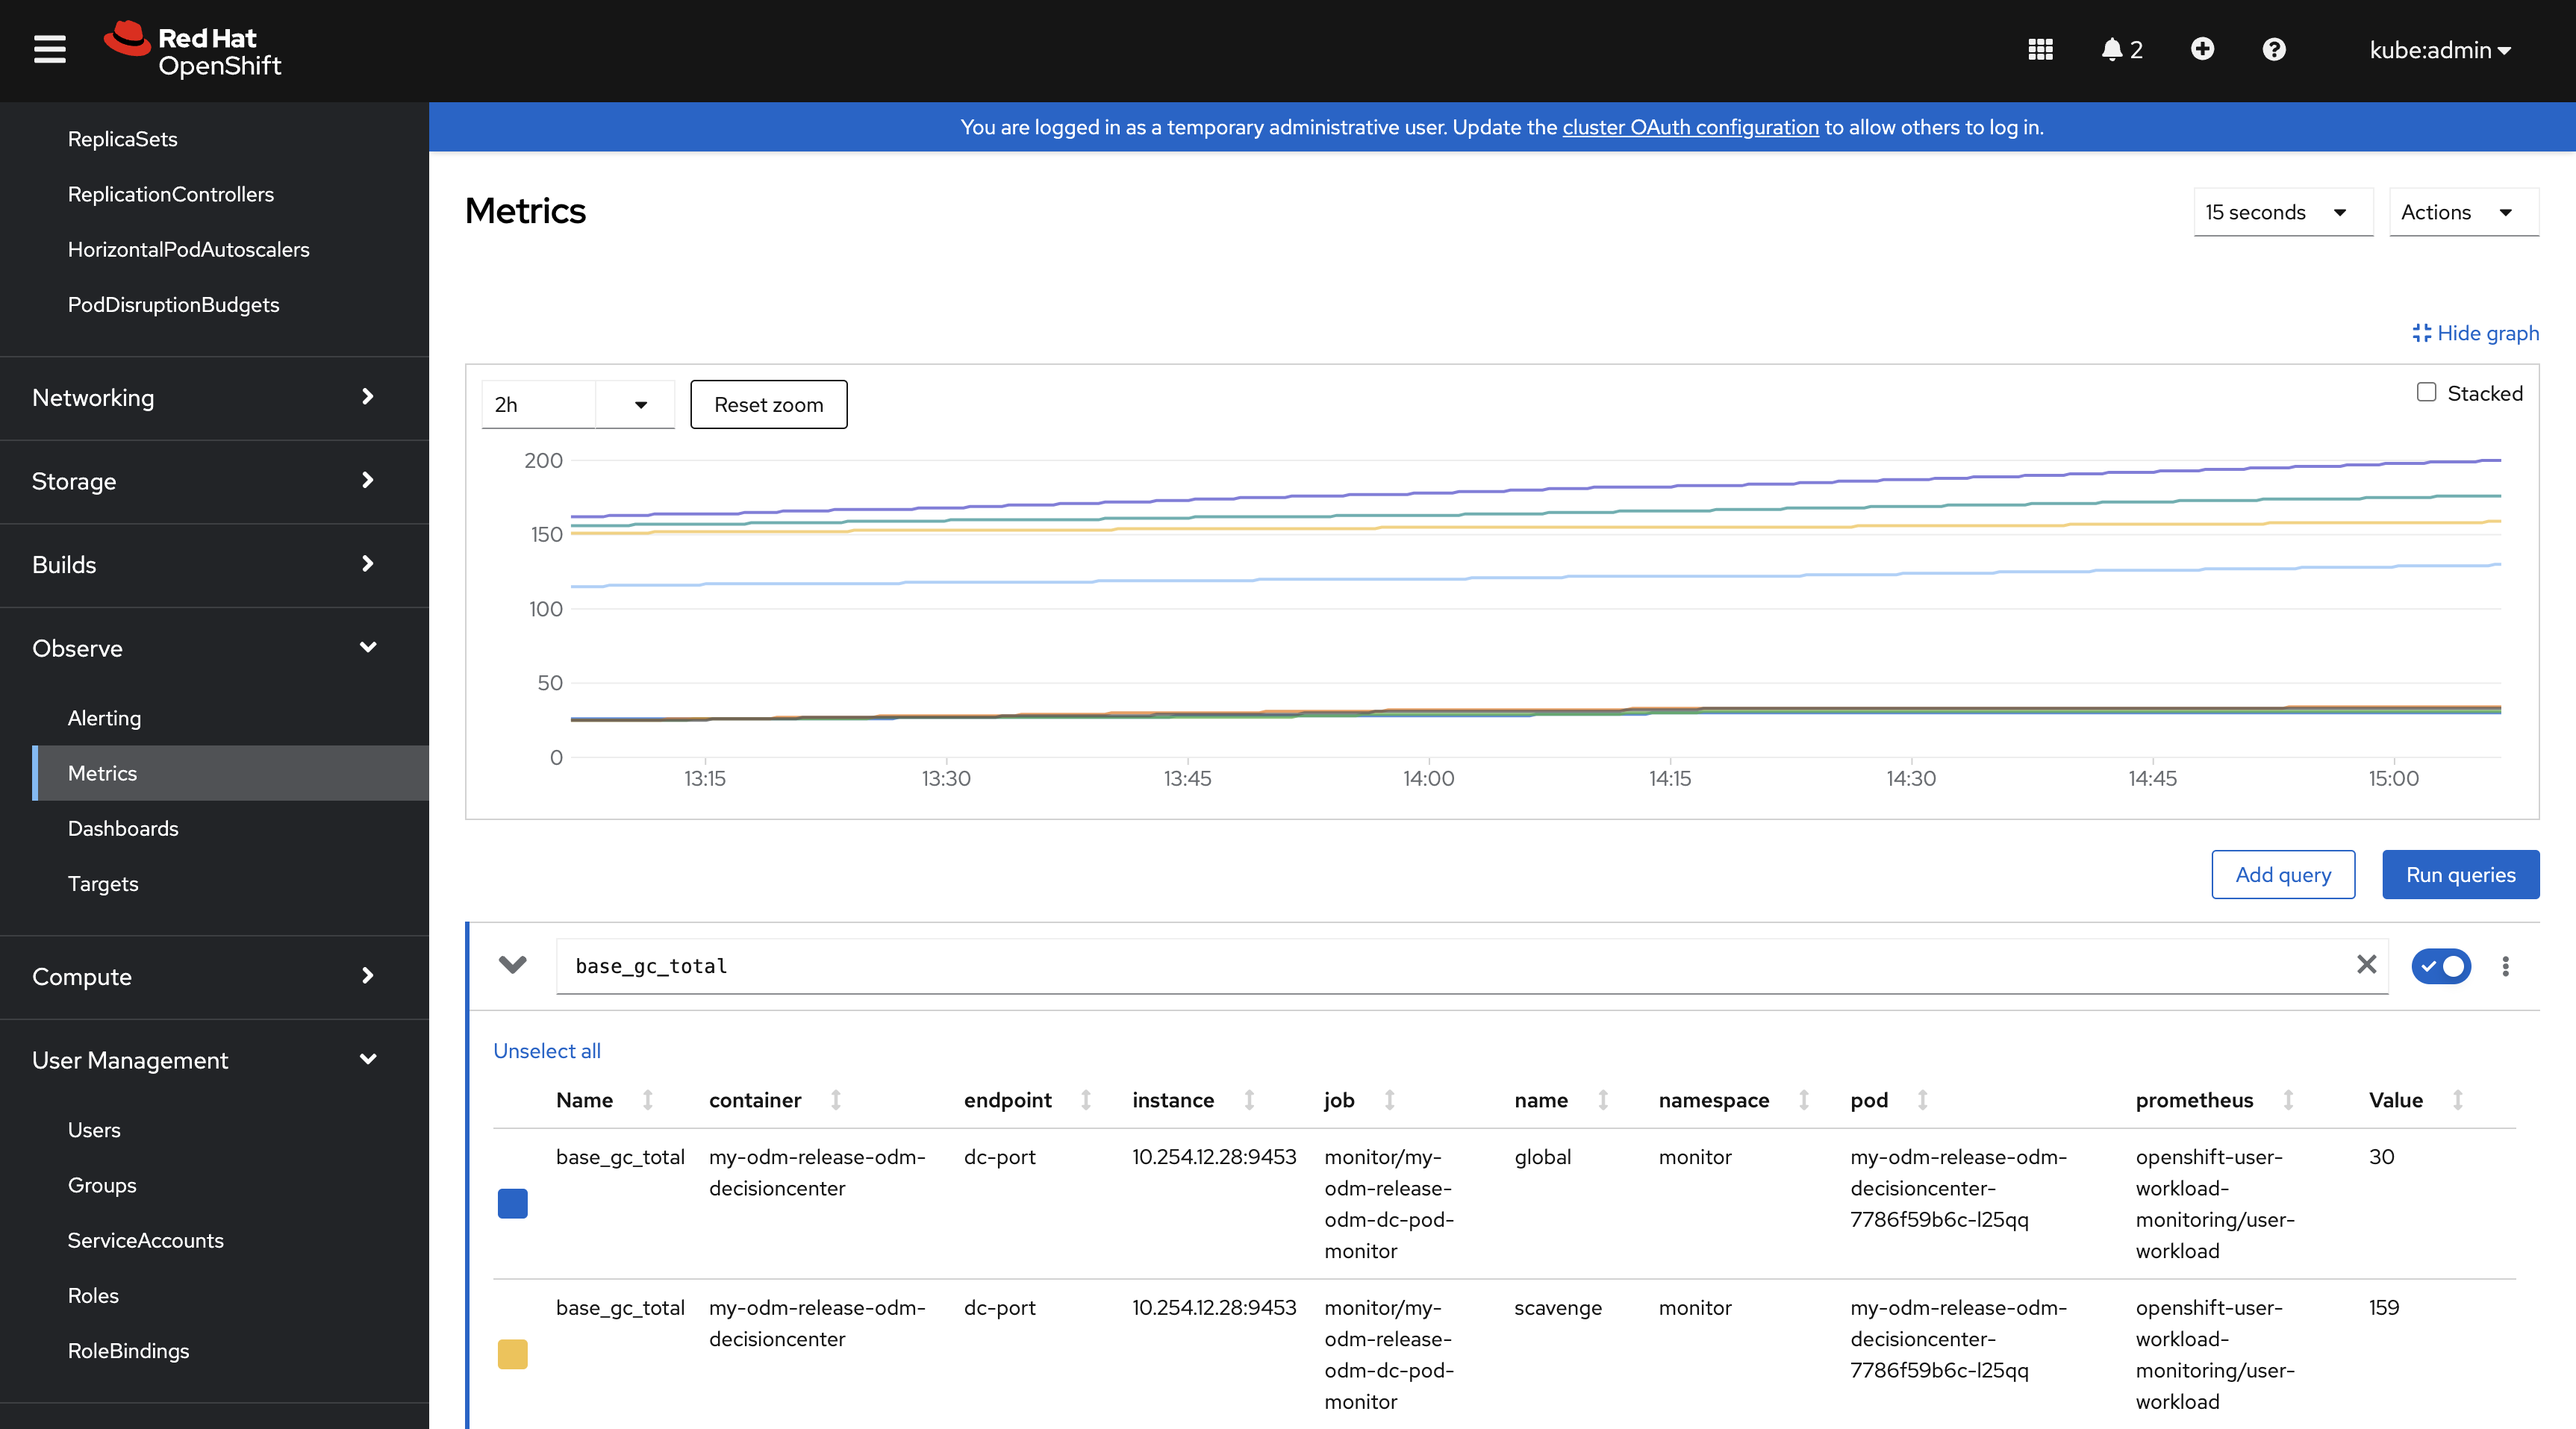
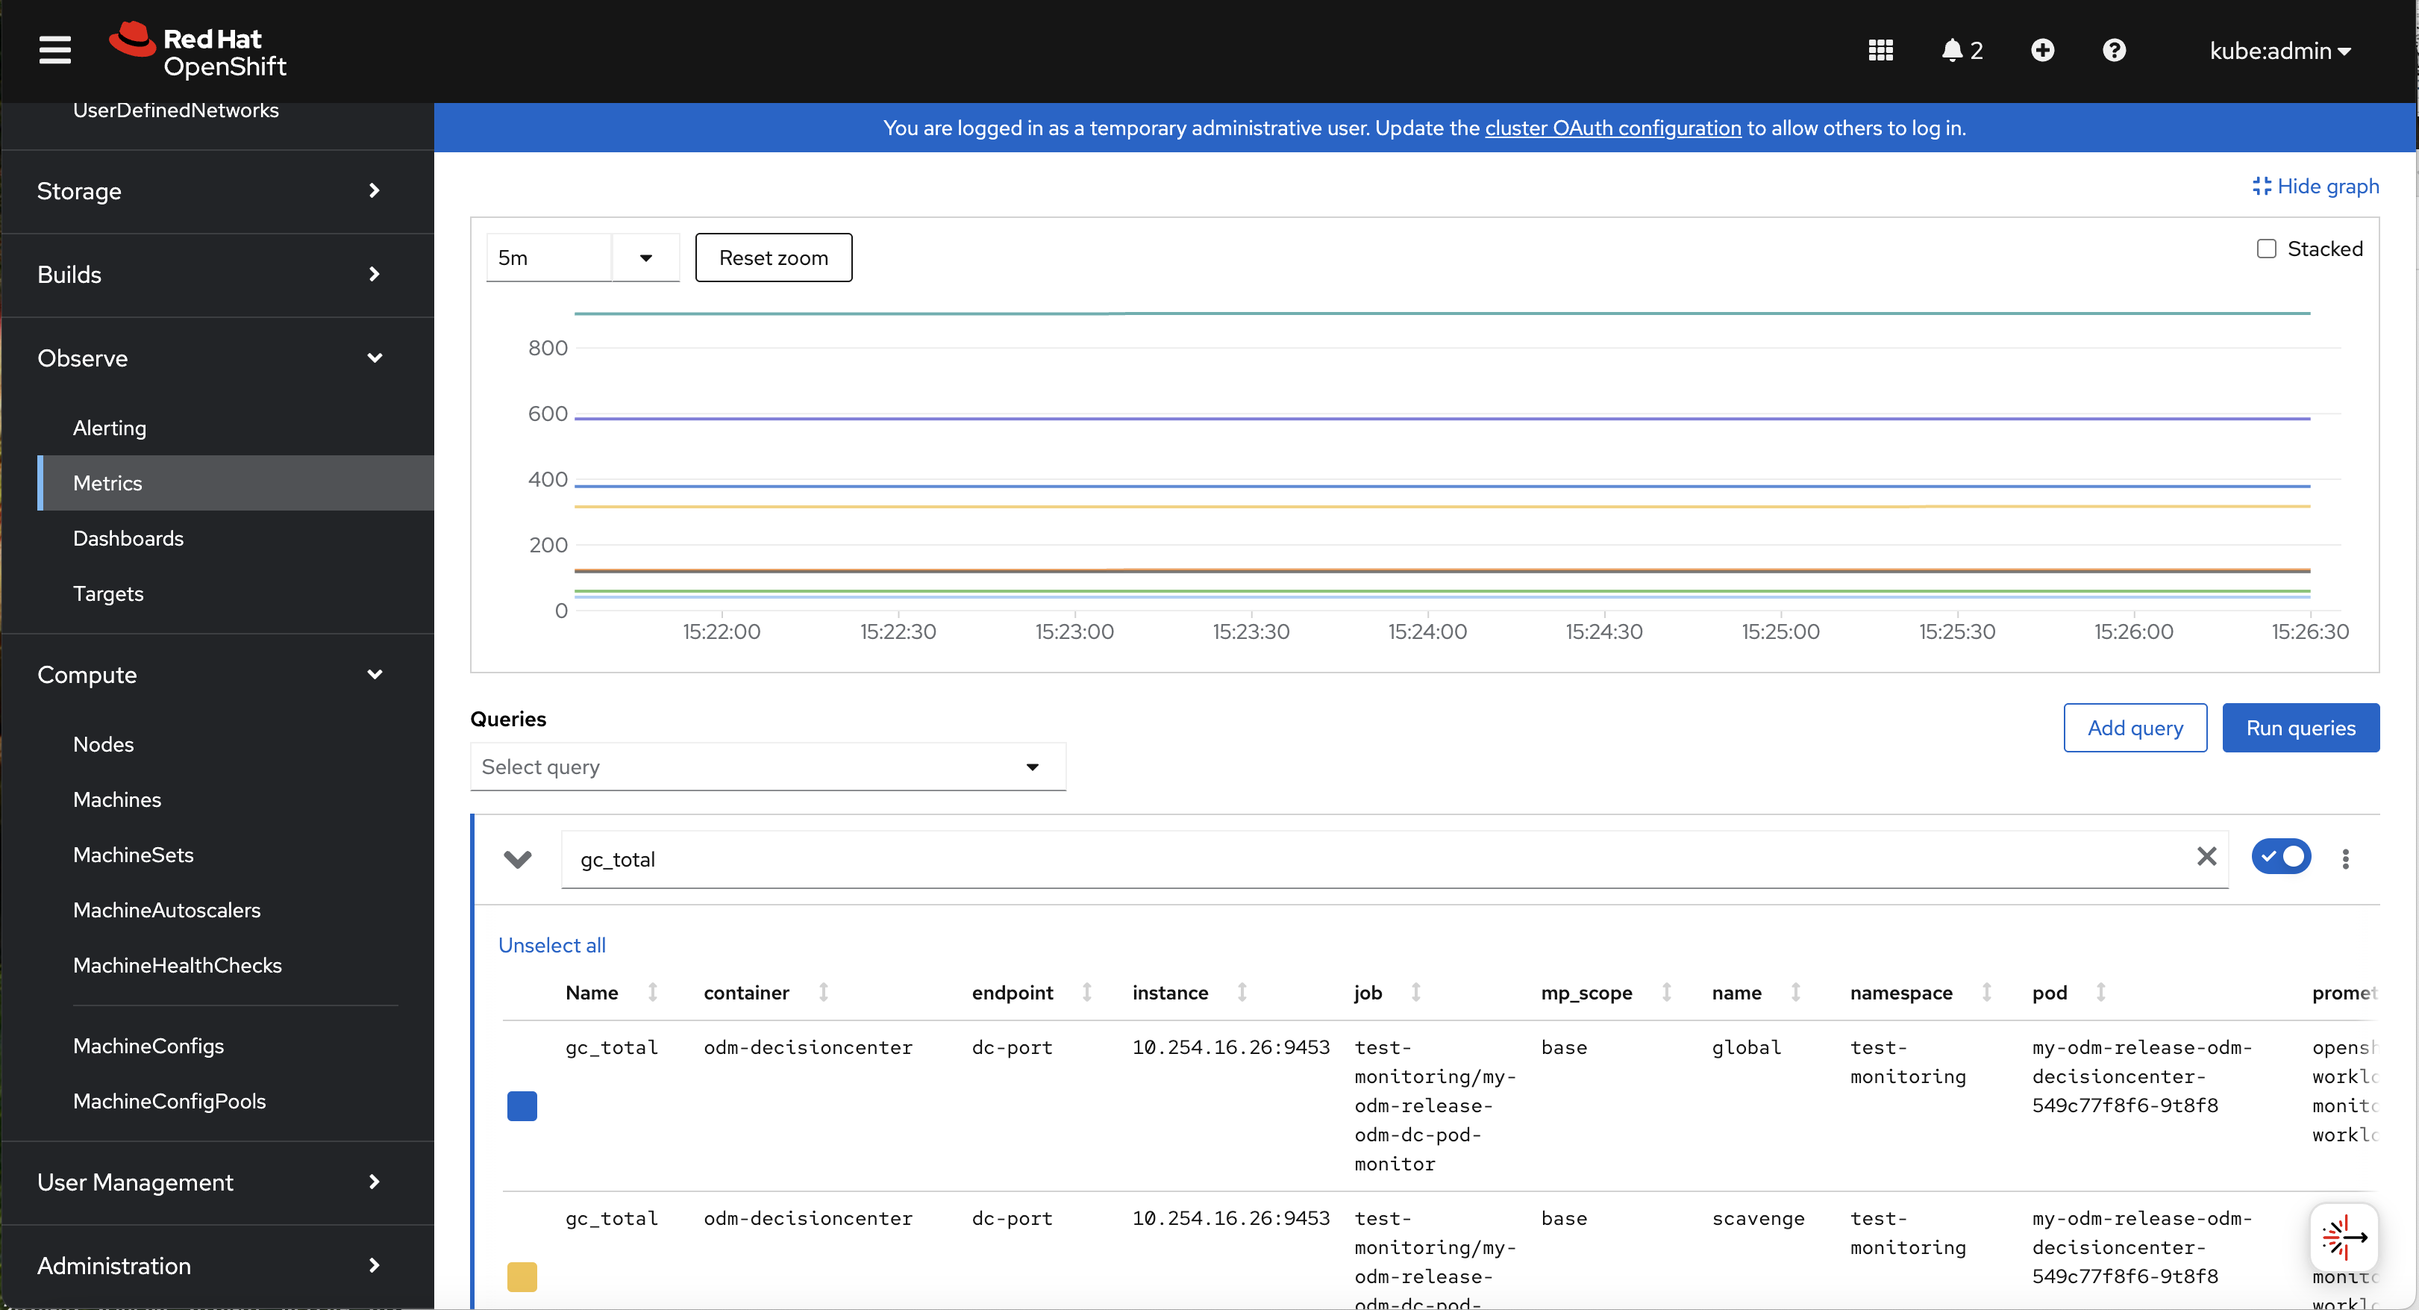
update metrics

diff --git a/contrib/monitor/mpmetrics/README.md b/contrib/monitor/mpmetrics/README.md
@@ -30,7 +30,7 @@ The MicroProfile mpMetrics Liberty feature provides a /metrics endpoint from whi
 2. Create a pull secret by running a `kubectl create secret` command.
 
     ```
-    $ kubectl create secret docker-registry icregistry-secret \
+    kubectl create secret docker-registry icregistry-secret \
         --docker-server=cp.icr.io \
         --docker-username=cp \
         --docker-password="<API_KEY_GENERATED>" \
@@ -70,7 +70,7 @@ Create the monitor-secret
   ```shell
   helm search repo ibm-odm-prod
   NAME                  	CHART VERSION	APP VERSION	DESCRIPTION
-  ibm-helm/ibm-odm-prod	  24.1.0       	9.0.0.1   	IBM Operational Decision Manager
+  ibm-helm/ibm-odm-prod	  25.0.0       	9.5.0.0   	IBM Operational Decision Manager
   ```
 
 ### 3. Run the `helm install` command
@@ -91,6 +91,18 @@ helm install my-odm-release ibm-helm/ibm-odm-prod \
 > [!NOTE]
 > **customization.monitorRef** is installing /metrics endpoint on all components. 
 > If you would like to install /metrics on a specific component, you can replace usage of **customization.monitorRef** by **decisionCenter.monitorRef** , **decisionServerConsole.monitorRef** , **decisionRunner.monitorRef** or **decisionServerRuntime.monitorRef**
+> This command installs the **latest available version** of the chart.  
+> If you want to install a **specific version**, add the `--version` option:
+>
+> ```bash
+> helm install roks-tuto ibm-helm/ibm-odm-prod --version <version> -f roks-values.yaml
+> ```
+>
+> You can list all available versions using:
+>
+> ```bash
+> helm search repo ibm-helm/ibm-odm-prod -l
+> ```
 
 ### 4. Check the /metrics endpoints
 
@@ -122,14 +134,14 @@ curl -k https://<DS_RUNTIME_HOST>/metrics
 You should get a view of all Liberty metrics that will be accessible in Prometheus:
     
 ```
-# TYPE base_gc_total counter
-# HELP base_gc_total Displays the total number of collections that have occurred. This attribute lists -1 if the collection count is undefined for this collector.
-base_gc_total{name="global"} 30
-base_gc_total{name="scavenge"} 157
+# HELP gc_total Displays the total number of collections that have occurred. This attribute lists -1 if the collection count is undefined for this collector.
+# TYPE gc_total counter
+gc_total{mp_scope="base",name="global",} 377.0
+gc_total{mp_scope="base",name="scavenge",} 312.0
 ...
-# TYPE vendor_connectionpool_waitTime_total_seconds gauge
-# HELP vendor_connectionpool_waitTime_total_seconds The total wait time on all connection requests since the start of the server.
-vendor_connectionpool_waitTime_total_seconds{datasource="jdbc_ilogDataSource"} 0.0
+# HELP connectionpool_waitTime_total_seconds The total wait time on all connection requests since the start of the server.
+# TYPE connectionpool_waitTime_total_seconds gauge
+connectionpool_waitTime_total_seconds{datasource="jdbc_ilogDataSource",mp_scope="vendor",} 0.0
 ```
 
 ## Expose metrics in OCP
@@ -159,11 +171,11 @@ You should see the 4 ODM metrics endpoints
 Drill at Observe > metrics.
 
 You can now use any kind of available metrics using a query.
-For example put **base_gc_total** in the **Expression** field and click on the **Run queries** button.
+For example put **gc_total** in the **Expression** field and click on the **Run queries** button.
 
 ![Queries](./images/queries.png)
 
-If you are interested in servlet requests managed by the runtime, you can use the query **vendor_servlet_request_total{servlet="DecisionService_RESTDecisionService"}**
+If you are interested in servlet requests managed by the runtime, you can use the query **servlet_request_total{mp_scope="vendor",servlet="DecisionService_RESTDecisionService"}**
 For example, by monitoring this metrics, you can check the behaviour of the load balancer is correct if all Decision Server Runtime replicas are receiving almost the same number of requests like in the following screenshot.
  
 ![Runtime Servlet Request](./images/RuntimeRequest.png)
